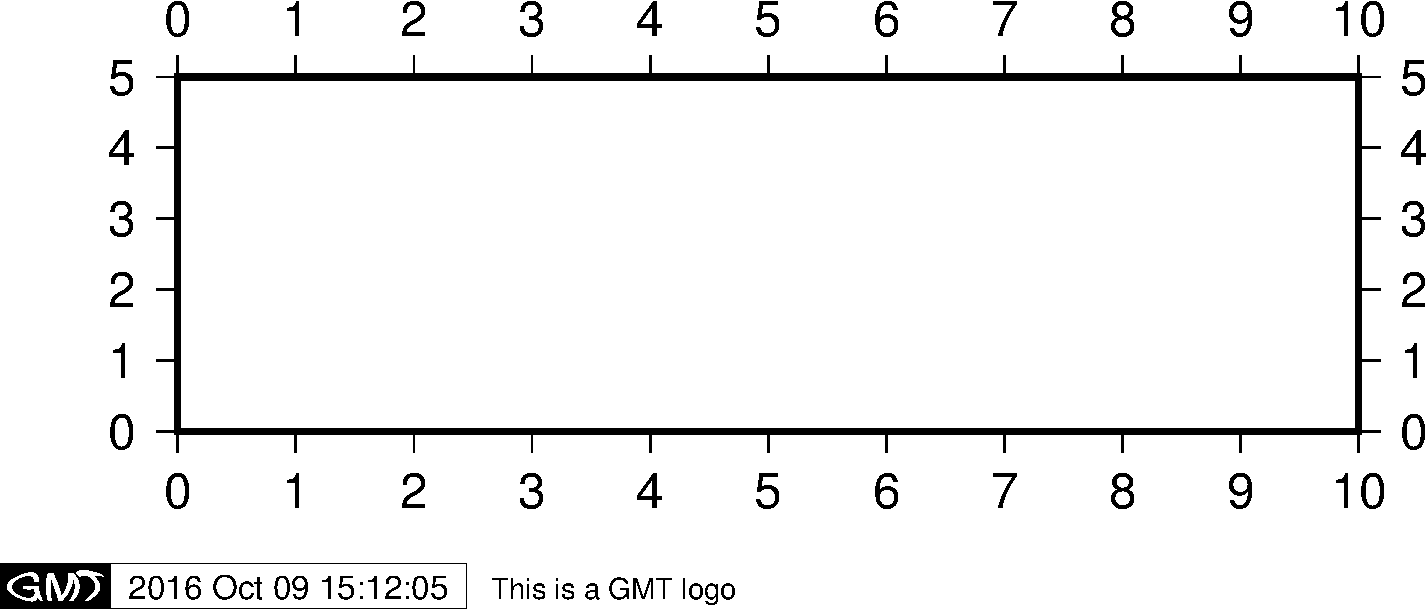
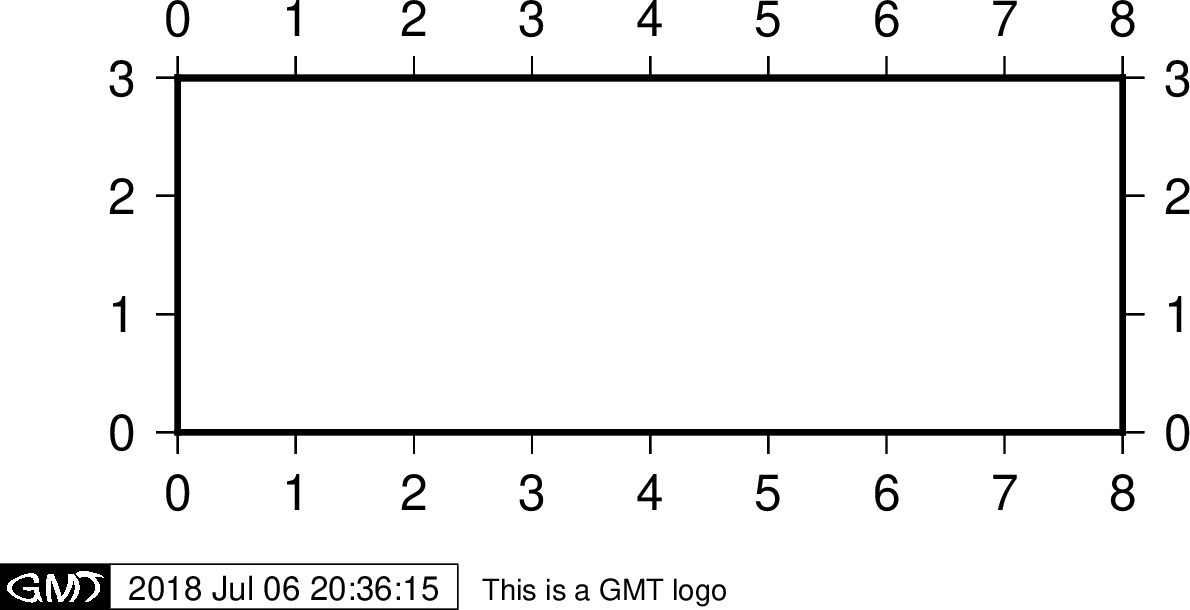
update -U option

diff --git a/source/option/U.rst b/source/option/U.rst
@@ -1,28 +1,28 @@
 ``-U`` 选项
 ===========
 
-``-U`` 选项会在纸上绘制一个带有UNIX系统时间戳的GMT logo。其语法为::
+``-U`` 选项会在图上绘制一个带有UNIX系统时间戳的GMT logo。其语法为::
 
     -U[<just>/<dx>/<dy>/][c|<label>]
 
 - ``-U`` 不加任何参数时会在当前图的左下角添加一个带时间戳的logo
-- ``-U<just>/<dx>/<dy>`` 可以调整logo的对齐方式（见 :doc:`/basic/anchors` ）以及
-  相对于当前坐标原点的位置，比如 ``-UBL/-54p/-54p``
+- ``-U<just>/<dx>/<dy>`` 用于控制时间戳的锚点（见 :doc:`/basic/anchors`\ ）
+  及时间戳相对于当前坐标原点的位置，比如 ``-UBL/-1c/-1c``
 - ``-U<label>`` 会在时间戳后打印字符串 ``<label>``，比如 ``-U"This is string"``
 - ``-Uc`` 会在时间戳后打印当前命令
 
-GMT参数中有一些与logo相关的参数：
+GMT参数中有一些与LOGO相关的参数：
 
 - :ref:`MAP_LOGO <MAP_LOGO>` 控制是否绘制时间戳，默认值为 ``FALSE``
 - :ref:`MAP_LOGO_POS <MAP_LOGO_POS>` 用于控制时间戳的位置
 - :ref:`FORMAT_TIME_STAMP <FORMAT_TIME_STAMP>` 用于控制时间戳的显示格式
-- :ref:`FONT_LOGO <FONT_LOGO>` 时间戳中文本的字体
+- :ref:`FONT_LOGO <FONT_LOGO>` 时间戳中文本字体
 
-命令::
+执行如下命令::
 
-    gmt psbasemap -R0/10/0/5 -JX10c/3c -Bx1 -By1 -P -UBL/-1.5c/-1.5c/"This is a GMT logo" > GMT_-U.ps
+    gmt basemap -R0/8/0/3 -Jx1c -Bx1 -By1 -UBL/-1.5c/-1.5c/"This is a GMT logo" -pdf GMT_-U
 
-显示效果如下图：
+得到的图片效果如下：
 
 .. figure:: /images/GMT_-U.*
    :width: 100%
@@ -32,6 +32,4 @@ GMT参数中有一些与logo相关的参数：
 
 .. important::
 
-   每个带有 ``-U`` 选项的绘图命令都会绘制一遍时间戳，因而只需要一个绘图命令中使用 ``-U`` 即可
-
-.. source: http://gmt.soest.hawaii.edu/doc/latest/GMT_Docs.html#timestamps-on-plots-the-u-option
+   每个带有 ``-U`` 选项的绘图命令都会绘制一遍时间戳，因而只需要一个绘图命令中使用 ``-U`` 即可。
